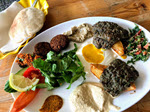
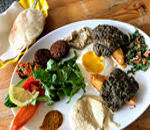
pic update in correct size

diff --git a/app/services/payment-service-func/BankAccount.cs b/app/services/payment-service-func/BankAccount.cs
@@ -1,6 +1,7 @@
 using System.Net;
 using System.Net.Http;
 using System.Threading.Tasks;
+using Microsoft.AspNetCore.Mvc;
 using Microsoft.Azure.WebJobs;
 using Microsoft.Azure.WebJobs.Extensions.DurableTask;
 using Microsoft.Azure.WebJobs.Extensions.Http;
@@ -8,10 +9,10 @@ using Microsoft.Extensions.Logging;
 
 namespace FoodApp
 {
-    public static class DurableBankAccount
+    public static class BankAccount
     {
-        [FunctionName(nameof(DurableBankAccount.BankAccount))]
-        public static void BankAccount([EntityTrigger] IDurableEntityContext context)
+        [FunctionName(nameof(BankAccount))]
+        public static void BankAccountHandleOperation([EntityTrigger] IDurableEntityContext context)
         {
             switch (context.OperationName.ToLowerInvariant())
             {
@@ -27,7 +28,7 @@ namespace FoodApp
 
         [FunctionName("UpdateBalance")]
         public static async Task<HttpResponseMessage> Run(
-        [HttpTrigger(AuthorizationLevel.Function, Route = "bankAccount/updateBalance/{entityKey}/{amount}")] HttpRequestMessage req,
+        [HttpTrigger(AuthorizationLevel.Anonymous, Route = "bankAccount/updateBalance/{entityKey}/{amount}")] HttpRequestMessage req,
         [DurableClient] IDurableEntityClient client,
         string entityKey, string amount)
         {

diff --git a/labs/lab-04/solution/payment-service-func/BankAccount.cs b/labs/lab-04/solution/payment-service-func/BankAccount.cs
@@ -1,6 +1,7 @@
 using System.Net;
 using System.Net.Http;
 using System.Threading.Tasks;
+using Microsoft.AspNetCore.Mvc;
 using Microsoft.Azure.WebJobs;
 using Microsoft.Azure.WebJobs.Extensions.DurableTask;
 using Microsoft.Azure.WebJobs.Extensions.Http;
@@ -8,10 +9,10 @@ using Microsoft.Extensions.Logging;
 
 namespace FoodApp
 {
-    public static class DurableBankAccount
+    public static class BankAccount
     {
-        [FunctionName(nameof(DurableBankAccount))]
-        public static void BankAccount([EntityTrigger] IDurableEntityContext context)
+        [FunctionName(nameof(BankAccount))]
+        public static void BankAccountHandleOperation([EntityTrigger] IDurableEntityContext context)
         {
             switch (context.OperationName.ToLowerInvariant())
             {

diff --git a/labs/lab-04/solution/readme.md b/labs/lab-04/solution/readme.md
@@ -23,7 +23,7 @@ A test client is provided to test the microservice using REST calls in [test-pay
 
     namespace FoodApp
     {
-        public static class DurableBankAccount
+        public static class BankAccount
         {
 
         }
@@ -33,8 +33,8 @@ A test client is provided to test the microservice using REST calls in [test-pay
 - Add the Durable Entity `bankAccount` to the static class:
 
     ```c#
-    [FunctionName(nameof(DurableBankAccount))]
-        public static void BankAccount([EntityTrigger] IDurableEntityContext context)
+    [FunctionName(nameof(BankAccount))]
+        public static void BankAccountHandleOperation([EntityTrigger] IDurableEntityContext context)
         {
             switch (context.OperationName.ToLowerInvariant())
             {
@@ -148,10 +148,18 @@ A test client is provided to test the microservice using REST calls in [test-pay
 
     >Note: The payment will not be executed because the balance is not sufficient. 
 
-## Task: Publish the microservice to Azure Functions
+## Task: Publish & Test the Durable Entity Bank Account Microservice
 
 - Execute `deploy-app.azcli`
 
 - Update `@paymentsUrl` in `test-payment-service.http`
 
 - Test the online deployment using `test-payment-service.http`
+
+- You should be able to see the log messages of your tests using the Functions Monitor in the Azure Portal.
+
+    ![func_monitor](_images/func_monitor.png)
+
+- You should also be able to see the Live Metrics in your Application Insights instance.
+
+    ![app_insights](_images/app_insights.png)    

diff --git a/labs/lab-04/readme.md b/labs/lab-04/readme.md
@@ -13,7 +13,7 @@ In this lab you will create a stateful microservice using Azure Functions. The m
 
 You can use the [starter project](./starter/payment-service-func/) as a reference.
 
-## Task: Publish the microservice to Azure Functions
+## Publish & Test the Durable Entity Bank Account Microservice
 
 - Create Function App Resources using Azure CLI IaC to host the microservice
 
